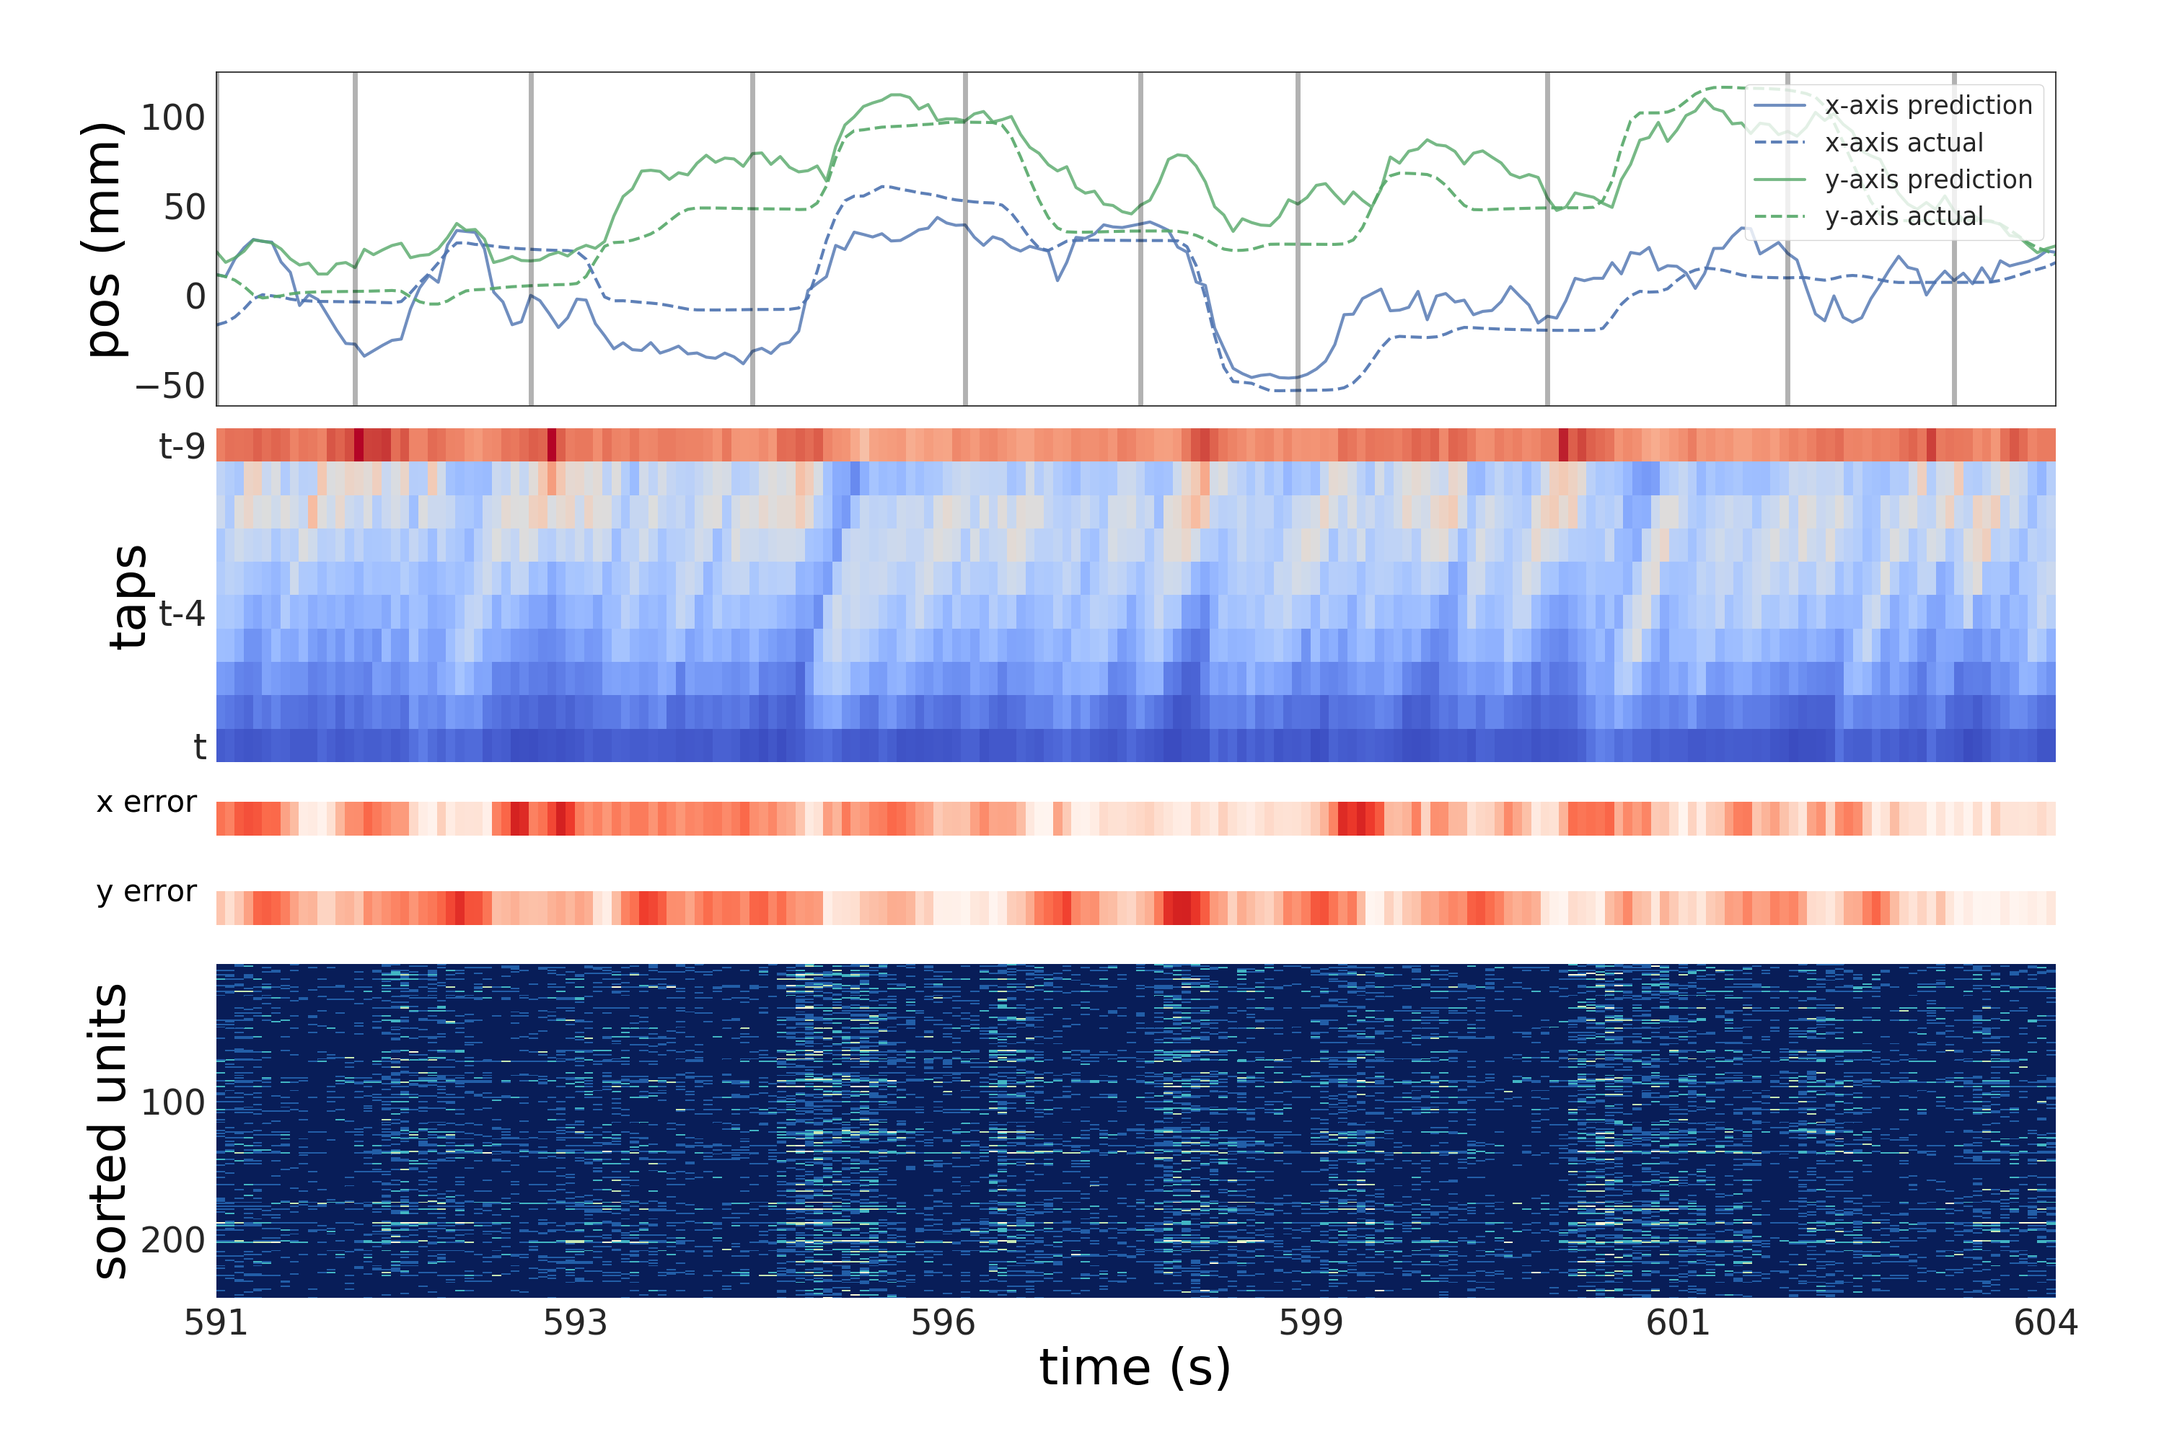
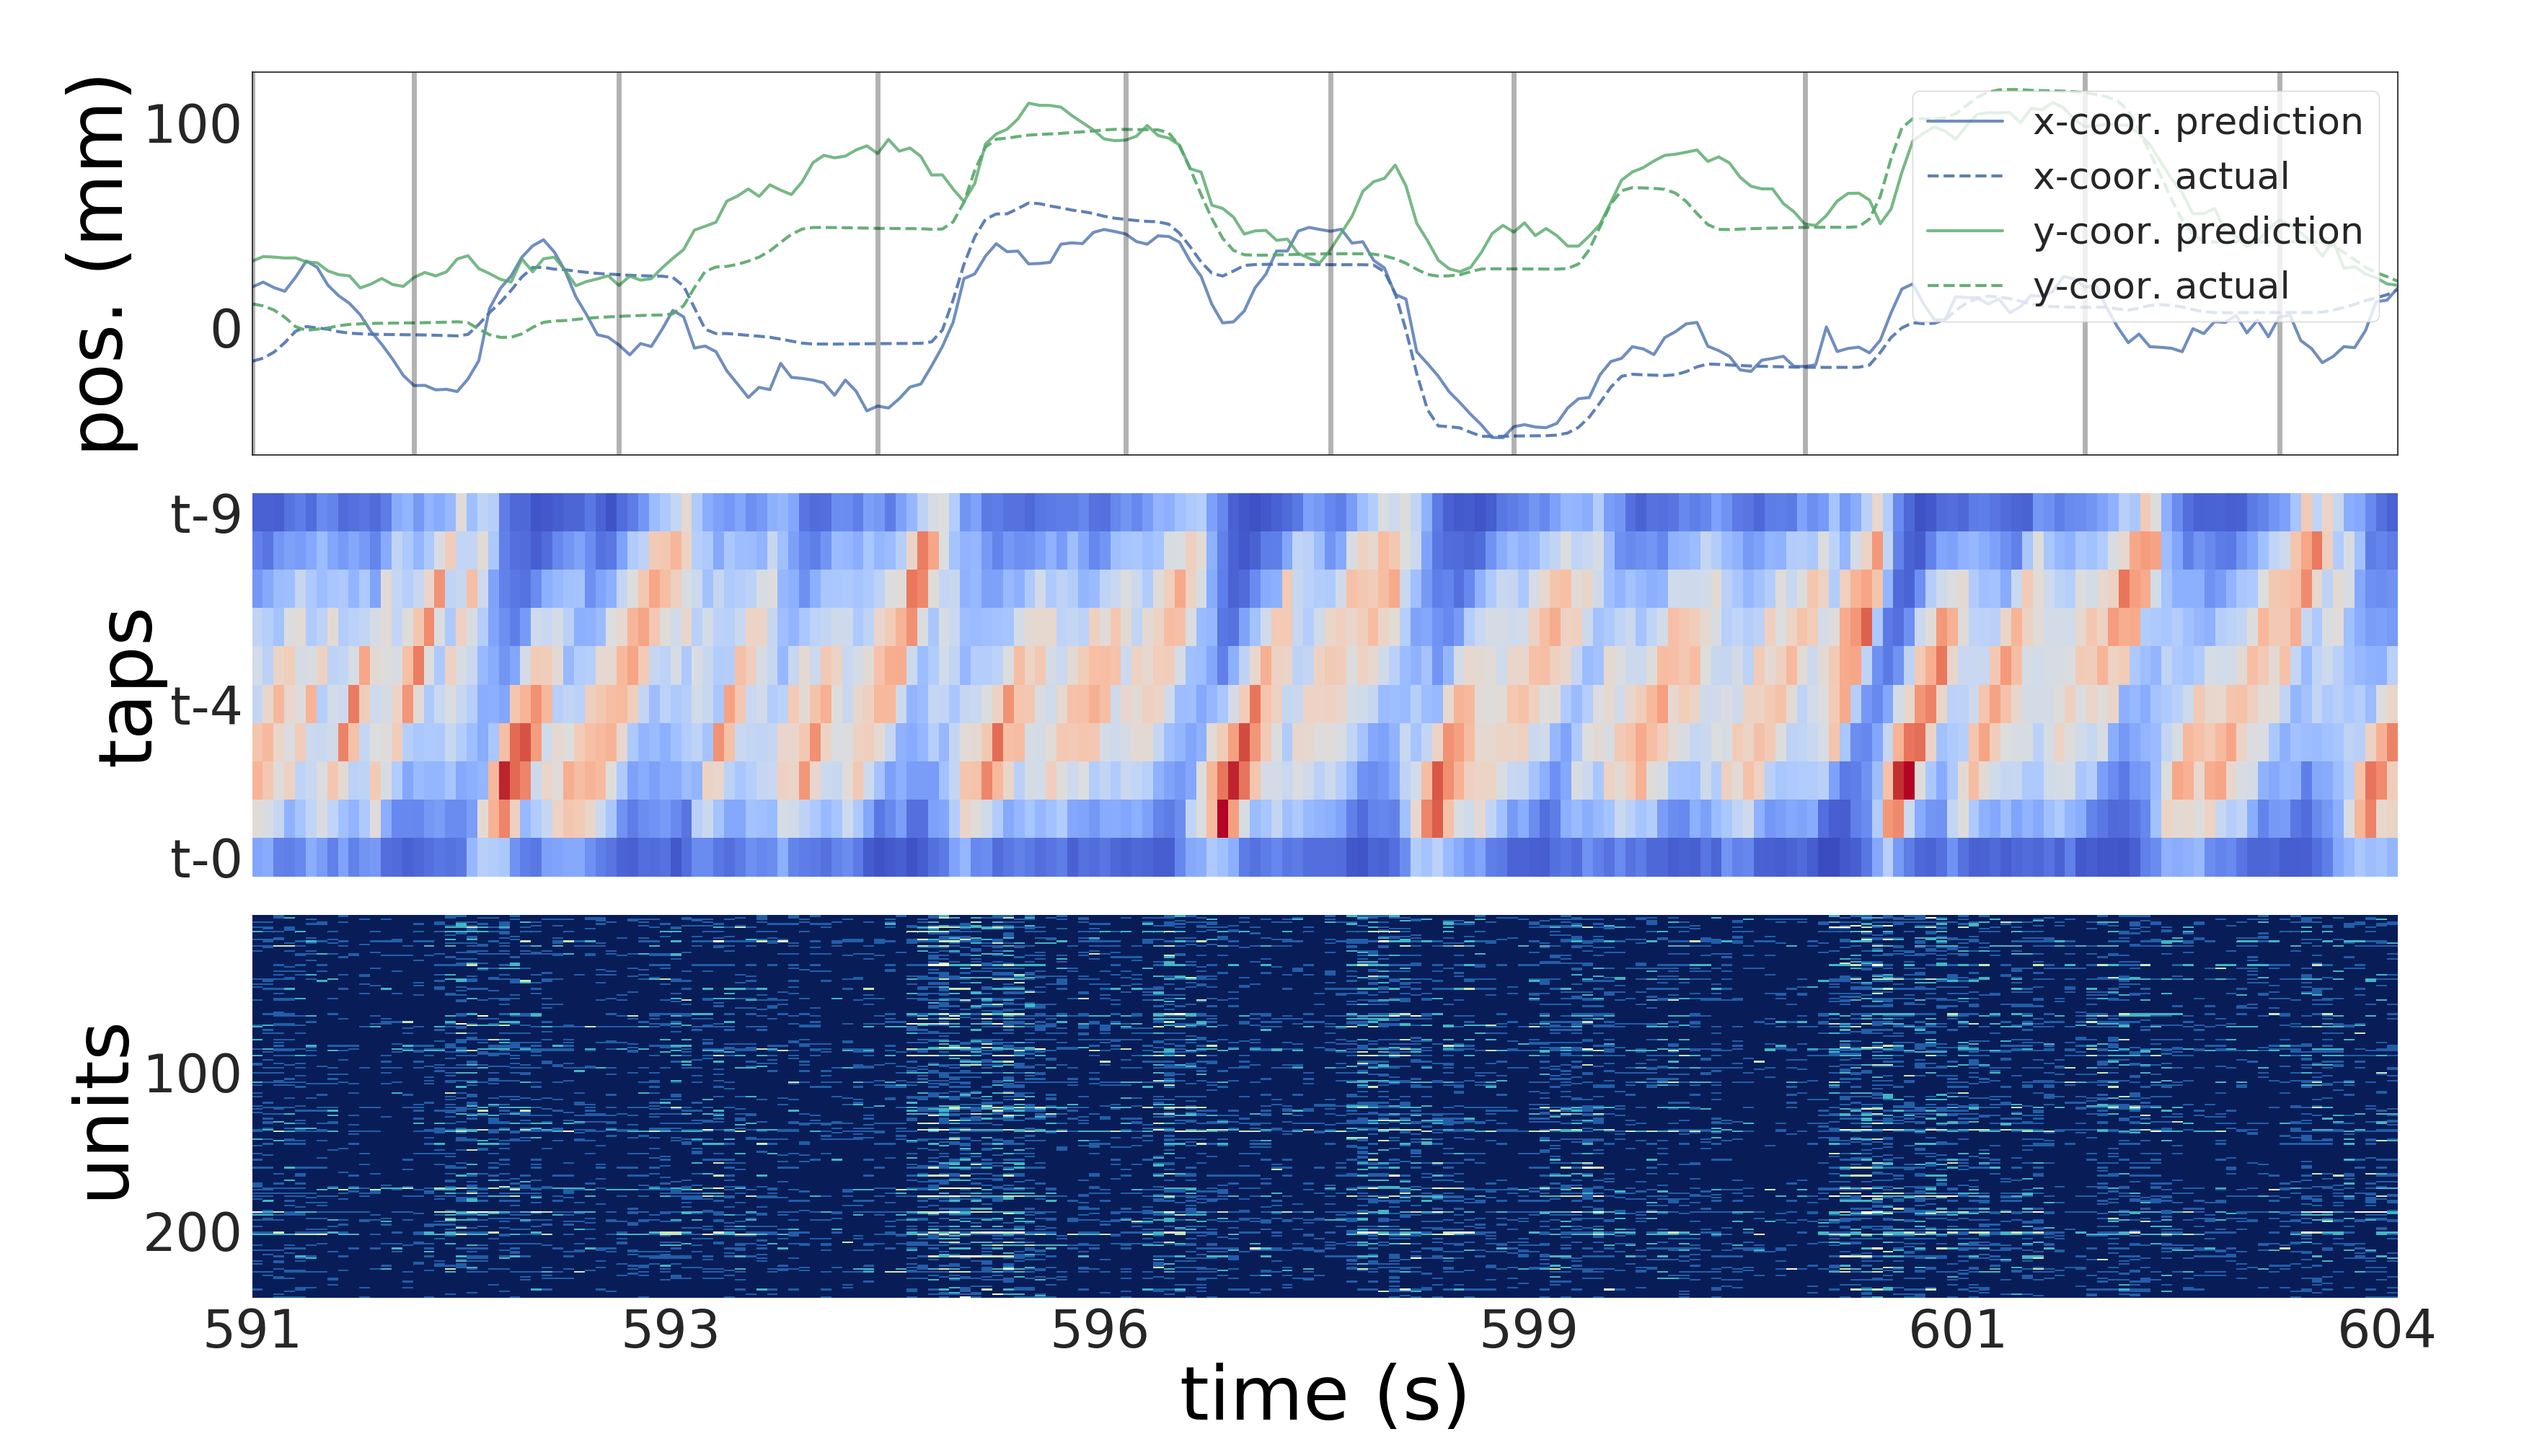
new

diff --git a/Thesis_Wu/Experimental_results.tex b/Thesis_Wu/Experimental_results.tex
@@ -145,7 +145,7 @@ The decoders included in the tables are
 		\multicolumn{3}{c}{UKF \citep{li2009unscented}}         & 0.50$\pm$0.26 & 0.65$\pm$0.22 & 0.45$\pm$0.21 & 0.60$\pm$0.15 & 0.15$\pm$0.19 & 0.23$\pm$0.16 \\
 		\multicolumn{3}{c}{rEFH \citep{makin2018}}              & 0.20$\pm$0.18 & 0.45$\pm$0.12 & 0.52$\pm$0.16 & 0.70$\pm$0.08 & 0.26$\pm$0.13 & 0.37$\pm$0.09 \\
         \multicolumn{3}{c}{rEFH (+KF) \citep{makin2018}}        & 0.46$\pm$0.28 & 0.70$\pm$0.09 & 0.58$\pm$0.15 & 0.74$\pm$0.06 & 0.29$\pm$0.15 & 0.40$\pm$0.09 \\
-        \multicolumn{3}{c}{Our GRU model (+Atten.\& L.N.)}           & \textbf{0.53$\pm$0.19} & \textbf{0.71$\pm$0.08} & \textbf{0.66$\pm$0.10} & \textbf{0.76$\pm$0.05} & \textbf{0.40$\pm$0.13} & \textbf{0.48$\pm$0.09} \\
+        \multicolumn{3}{c}{\makecell{Our GRU model\\(+Atten.\& L.N.)}}           & \textbf{0.53$\pm$0.19} & \textbf{0.71$\pm$0.08} & \textbf{0.66$\pm$0.10} & \textbf{0.76$\pm$0.05} & \textbf{0.40$\pm$0.13} & \textbf{0.48$\pm$0.09} \\
         \hline
     \end{tabular}
     \hspace*{-2cm} % https://tex.stackexchange.com/questions/81826/changing-margins-for-a-page-with-tables
@@ -283,11 +283,11 @@ decoders can not use the spiking activities happened when fingertips are station
 
 \begin{figure}[H]
     \begin{center}
-        \begin{subfigure}{0.7\textwidth}
+        \begin{subfigure}{1.0\textwidth}
             \includegraphics[width=1\textwidth]{../Visualization_of_attention_process_figures/indy_20160916_01/pos_attention_map_200_to_400.png}
             \caption*{ \small{session indy\_20160916\_01}}
         \end{subfigure}
-        \begin{subfigure}{0.7\textwidth}
+        \begin{subfigure}{1.0\textwidth}
             \includegraphics[width=1\textwidth]{../Visualization_of_attention_process_figures/indy_20161025_04/pos_attention_map_400_to_600.png}
             \caption*{ \small{session indy\_20161025\_04 }}
         \end{subfigure}
@@ -310,11 +310,11 @@ It also tells us that the attention module can actually represent the dynamics o
 
 \begin{figure}[H]
     \begin{center}
-        \begin{subfigure}{0.7\textwidth}
+        \begin{subfigure}{1.0\textwidth}
             \includegraphics[width=1\textwidth]{../Visualization_of_attention_process_figures/indy_20160916_01/vel_attention_map_200_to_400.png}
             \caption*{ \small{session indy\_20160916\_01}}
         \end{subfigure}
-        \begin{subfigure}{0.7\textwidth}
+        \begin{subfigure}{1.0\textwidth}
             \includegraphics[width=1\textwidth]{../Visualization_of_attention_process_figures/indy_20161025_04/vel_attention_map_400_to_600.png}
             \caption*{ \small{session indy\_20161025\_04 }}
         \end{subfigure}
@@ -327,11 +327,11 @@ It also tells us that the attention module can actually represent the dynamics o
 
 \begin{figure}[H]
     \begin{center}
-        \begin{subfigure}{0.7\textwidth}
+        \begin{subfigure}{1.0\textwidth}
             \includegraphics[width=1\textwidth]{../Visualization_of_attention_process_figures/indy_20160916_01/acc_attention_map_200_to_400.png}
             \caption*{ \small{session indy\_20160916\_01}}
         \end{subfigure}
-        \begin{subfigure}{0.7\textwidth}
+        \begin{subfigure}{1.0\textwidth}
             \includegraphics[width=1\textwidth]{../Visualization_of_attention_process_figures/indy_20161025_04/acc_attention_map_400_to_600.png}
             \caption*{ \small{session indy\_20161025\_04 }}
         \end{subfigure}
@@ -395,7 +395,7 @@ the attention scores in the time bins prior to $t-10$ is indeed almost zero.
 
 \begin{figure}[H]
     \begin{center}
-        \includegraphics[width=0.7\textwidth]{../tap_sizes_figures/indy_20161013_03/velocity/atention_map.png}
+        \includegraphics[width=1.0\textwidth]{../tap_sizes_figures/indy_20161013_03/velocity/atention_map.png}
         \captionsetup{width=1\textwidth}
         \caption{ Corresponding attention map in velocity decoding }
         \caption*{ \small{session indy\_20161013\_03}}
@@ -434,7 +434,7 @@ the attention scores in the time bins prior to $t-8$ is indeed almost zero.
 
 \begin{figure}[H]
     \begin{center}
-        \includegraphics[width=0.7\textwidth]{../tap_sizes_figures/indy_20161013_03/acceleration/attention_map.png}
+        \includegraphics[width=1.0\textwidth]{../tap_sizes_figures/indy_20161013_03/acceleration/attention_map.png}
         \captionsetup{width=1\textwidth}
         \caption{Corresponding attention map in acceleration decoding}
         \caption*{ \small{session indy\_20161013\_03}}
@@ -455,11 +455,11 @@ that makes the the length of stationary period a variable for tap sizes optimiza
 
 \begin{figure}[H]
     \begin{center}
-        \begin{subfigure}{0.7\textwidth}
+        \begin{subfigure}{1.0\textwidth}
             \includegraphics[width=1\textwidth]{../tap_sizes_figures/indy_20160419_01/position/tap_20.png}
             \caption*{20 taps}
         \end{subfigure}
-        \begin{subfigure}{0.7\textwidth}
+        \begin{subfigure}{1.0\textwidth}
             \includegraphics[width=1\textwidth]{../tap_sizes_figures/indy_20160419_01/position/tap_50.png}
             \caption*{50 taps}
         \end{subfigure}
@@ -518,7 +518,7 @@ does not seems to have an significant contribution in the decoding accuracy.
     \begin{tabular}{ccccccccc}
         \hline
         \multicolumn{1}{c}{ \multirow{2}{*}{\textbf{Atten.}}}  & \multicolumn{1}{c}{\multirow{2}{*}{\textbf{L.N.}}}    & \multicolumn{1}{c|}{\multirow{1}{*}{\textbf{GRU}}}          & \multicolumn{2}{c}{\multirow{1}{*}{\textbf{Position}}} & \multicolumn{2}{c}{\multirow{1}{*}{\textbf{Velocity}}} & \multicolumn{2}{c}{\multirow{1}{*}{\textbf{Acceleration}}} \\
-        \multicolumn{1}{c}{}                                   & \multicolumn{1}{c}{}            & \multicolumn{1}{c|}{\multirow{1}{*}{\textbf{Dir.}}} & \multicolumn{1}{c}{\multirow{1}{*}{\textbf{x}}} & \multicolumn{1}{c}{\multirow{1}{*}{\textbf{y}}} & \multicolumn{1}{c}{\multirow{1}{*}{\textbf{x}}} & \multicolumn{1}{c}{\multirow{1}{*}{\textbf{y}}} & \multicolumn{1}{c}{\multirow{1}{*}{\textbf{x}}} & \multicolumn{1}{c}{\multirow{1}{*}{\textbf{y}}} \\
+        \multicolumn{1}{c}{}                                   & \multicolumn{1}{c}{}            & \multicolumn{1}{c|}{\multirow{1}{*}{\textbf{Dir.}}} & \multicolumn{1}{c}{\multirow{1}{*}{\textbf{x-coor.}}} & \multicolumn{1}{c}{\multirow{1}{*}{\textbf{y-coor.}}} & \multicolumn{1}{c}{\multirow{1}{*}{\textbf{x-coor.}}} & \multicolumn{1}{c}{\multirow{1}{*}{\textbf{y-coor.}}} & \multicolumn{1}{c}{\multirow{1}{*}{\textbf{x-coor.}}} & \multicolumn{1}{c}{\multirow{1}{*}{\textbf{y-coor.}}} \\
         \hline
         \textcolor{red}{\xmark} & \textcolor{red}{\xmark} & $\rightarrow$                   & 0.49$\pm$0.21         & 0.68$\pm$0.12         & 0.65$\pm$0.13         & 0.71$\pm$0.11         & 0.31$\pm$0.16         & 0.32$\pm$0.23 \\ 
         \textcolor{red}{\xmark} & \textcolor{red}{\xmark} & $\rightleftarrows$              & 0.49$\pm$0.21         & 0.69$\pm$0.13         & 0.65$\pm$0.12         & 0.74$\pm$0.07         & 0.24$\pm$0.13         & 0.25$\pm$0.19 \\ 

diff --git a/Thesis_Wu/Main/Main.tex b/Thesis_Wu/Main/Main.tex
@@ -1,4 +1,4 @@
-\documentclass[15pt, a4paper, oneside]{book} %12pt Butters
+\documentclass[12pt, a4paper, oneside]{book} %12pt Butters
 \usepackage[utf8]{inputenc}
 \usepackage{minitoc}
 %% Figure settings
@@ -105,8 +105,8 @@
 \usepackage{../macros_tn} %Loads all my macros
 \usepackage{geometry}
 
-\usepackage[colorinlistoftodos, textwidth=40mm, textsize=small]{todonotes}   % notes showed
-% \usepackage[disable]{todonotes} % notes disable
+% \usepackage[colorinlistoftodos, textwidth=40mm, textsize=small]{todonotes}   % notes showed
+\usepackage[disable]{todonotes} % notes disable
 
 % \usepackage[disable]{todonotes} % hide all todos
 \usepackage{enumitem}
@@ -196,13 +196,13 @@
 	\newgeometry{
 		a4paper,
 		total={210mm,296mm},
-		left = 10mm, %30, 10
-		right = 45mm, %25, 45
-		top = 15mm,  %23, 15
-		bottom = 15mm,  %35, 15
+		left = 30mm, %30, 10
+		right = 25mm, %25, 45
+		top = 23mm,  %23, 15
+		bottom = 35mm,  %35, 15
 	}
-	% \CenterWallPaper{.325}{watermark.jpg} % disable watermark Butters
-	\begin{spacing}{1} %1.5
+	\CenterWallPaper{.325}{watermark.jpg} % disable watermark Butters
+	\begin{spacing}{1.5} %1.5
 		\frontmatter
 		%% Chinese Abstract
 		\addcontentsline{toc}{chapter}{Chinese abstract}

diff --git a/Thesis_Wu/Related_work.tex b/Thesis_Wu/Related_work.tex
@@ -177,7 +177,7 @@ But they only predicted velocity, without decoding position and acceleration.
 % On the other hand, some researches prefer to high frequency signal called spike train \citep{makin2018}, or merging those two signal all together \citep{stavisky2015high}, which attempt to reach higher decoding performance.
  
 
-\section{Unsolved problems and drawbacks in preceding deep learning invasive BCIs}
+\section{Unsolved problems in deep learning invasive BCIs}
 \label{sec:unsolved_problems_in_deep_learning_bci}
 % \begin{multicols}{2}
 % \todo[inline, color=green!20]{這些深度學習的侵入式腦機介面還有甚麼問題沒被解決? 有甚麼缺點?}
